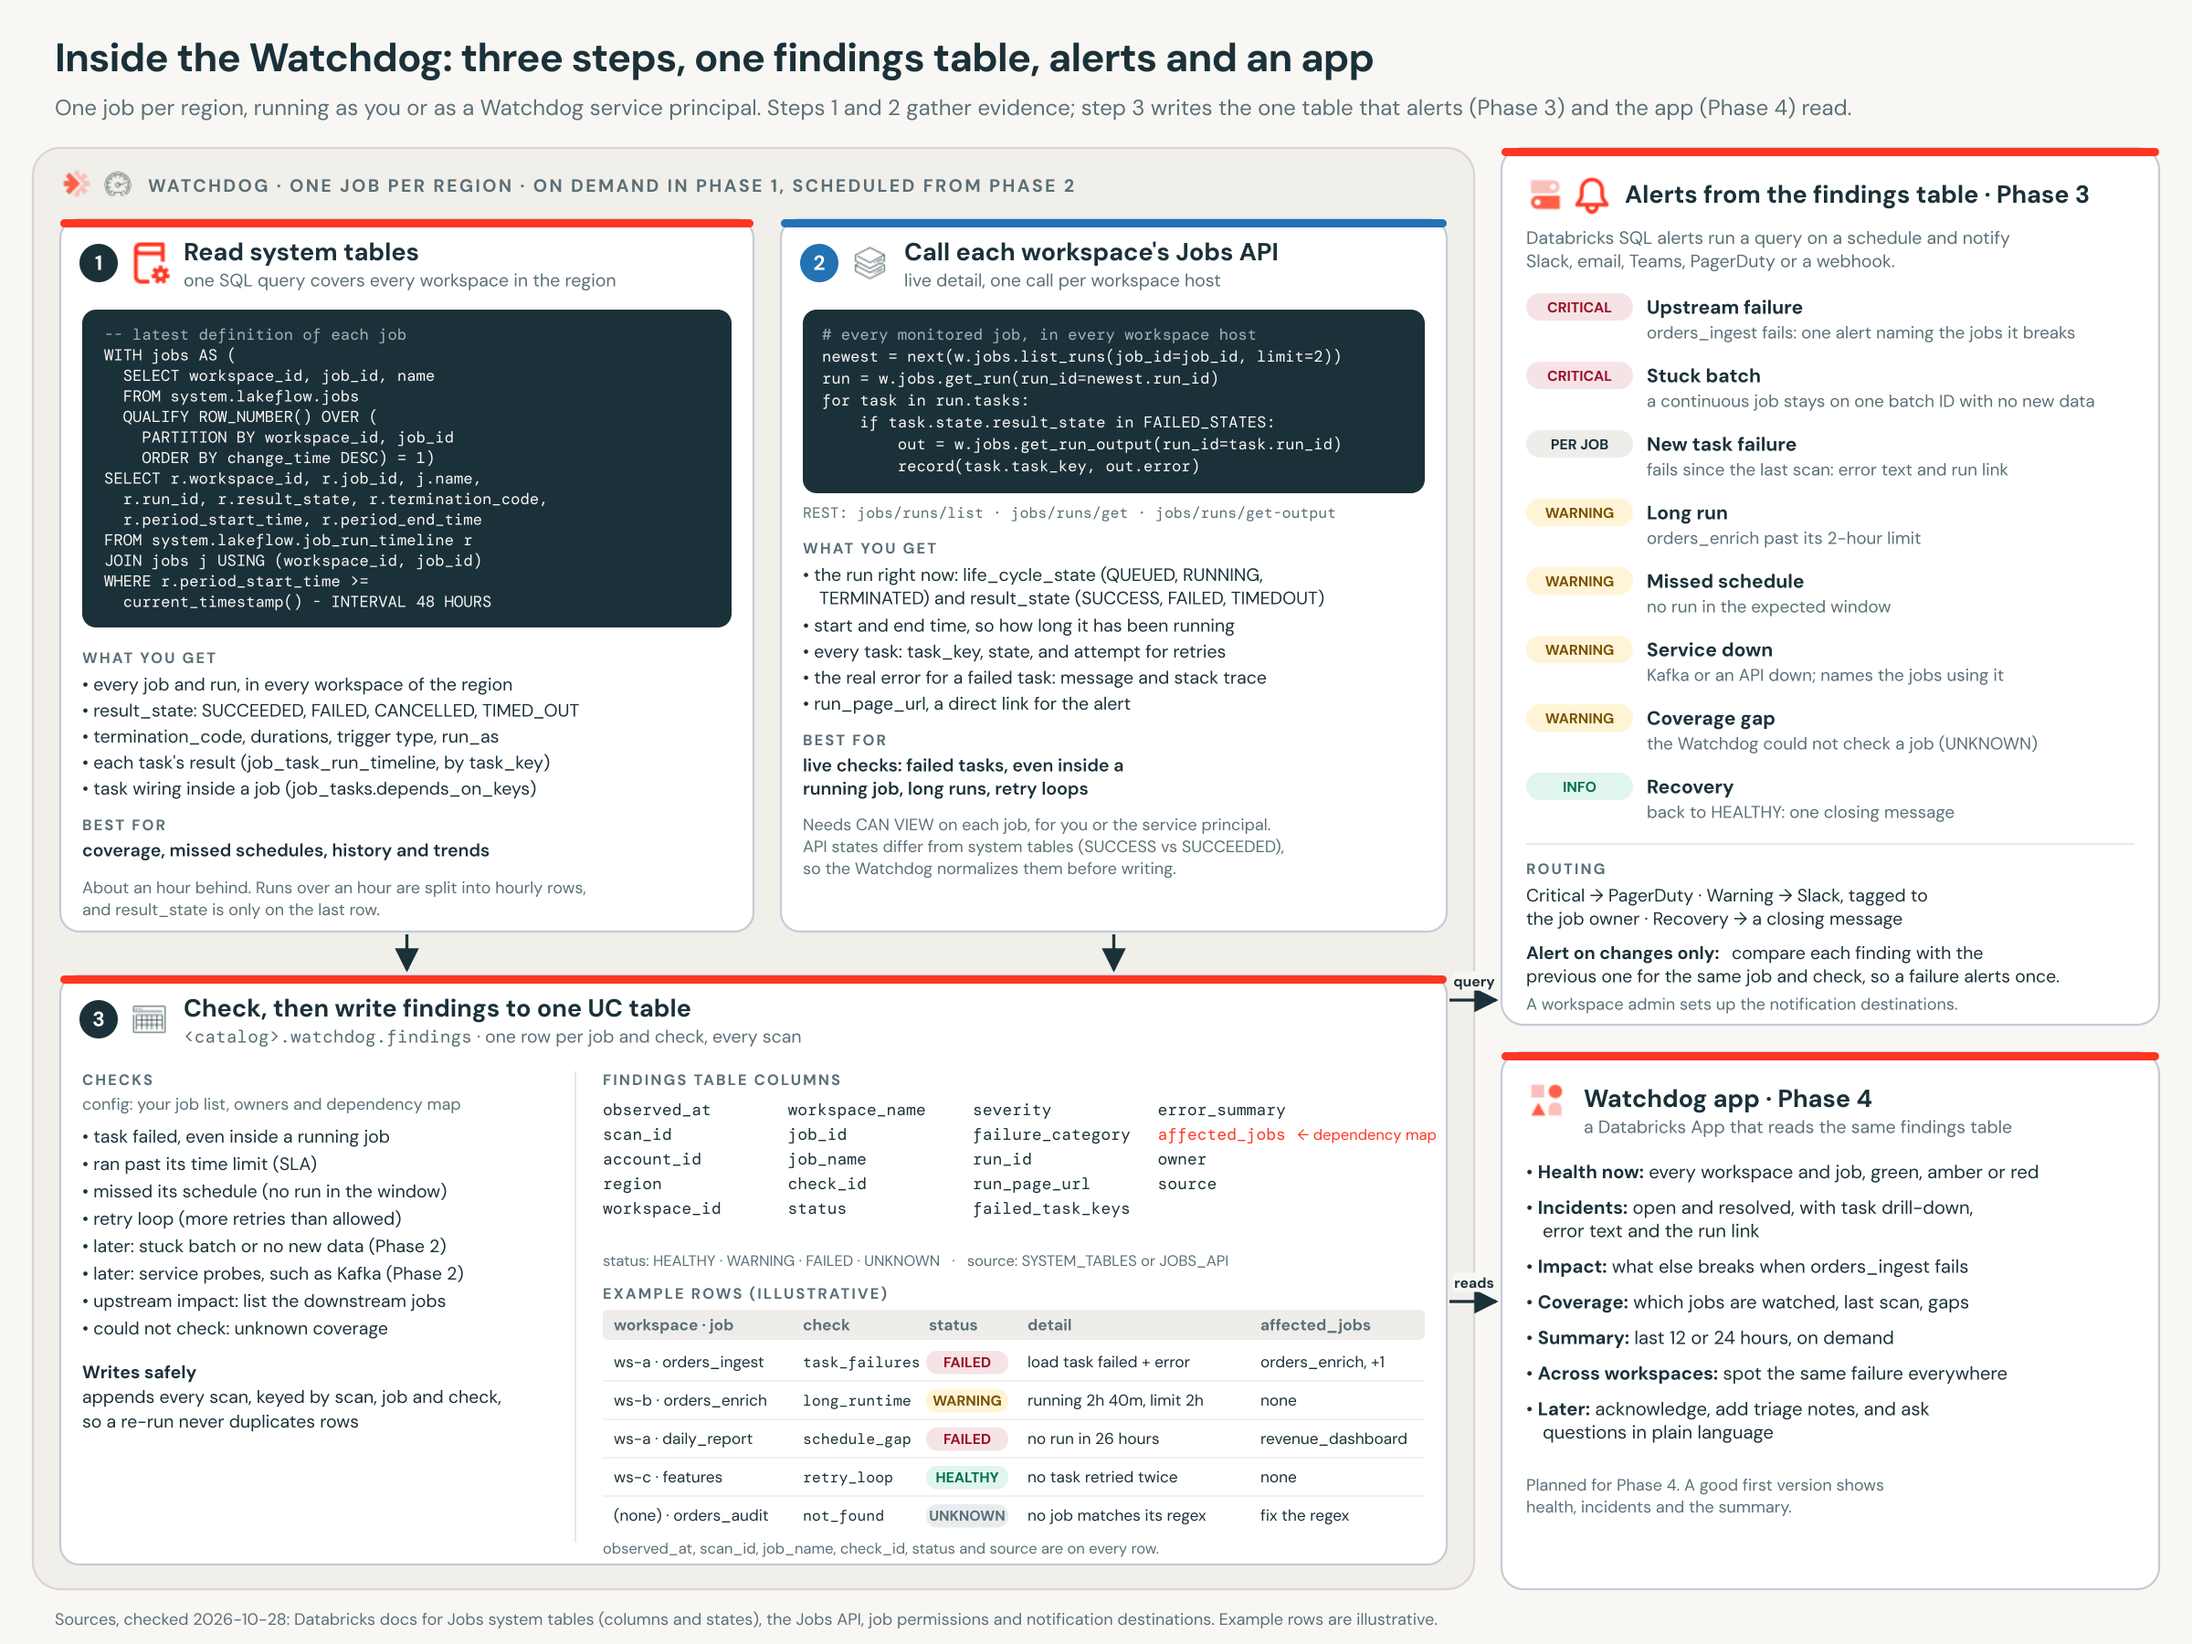
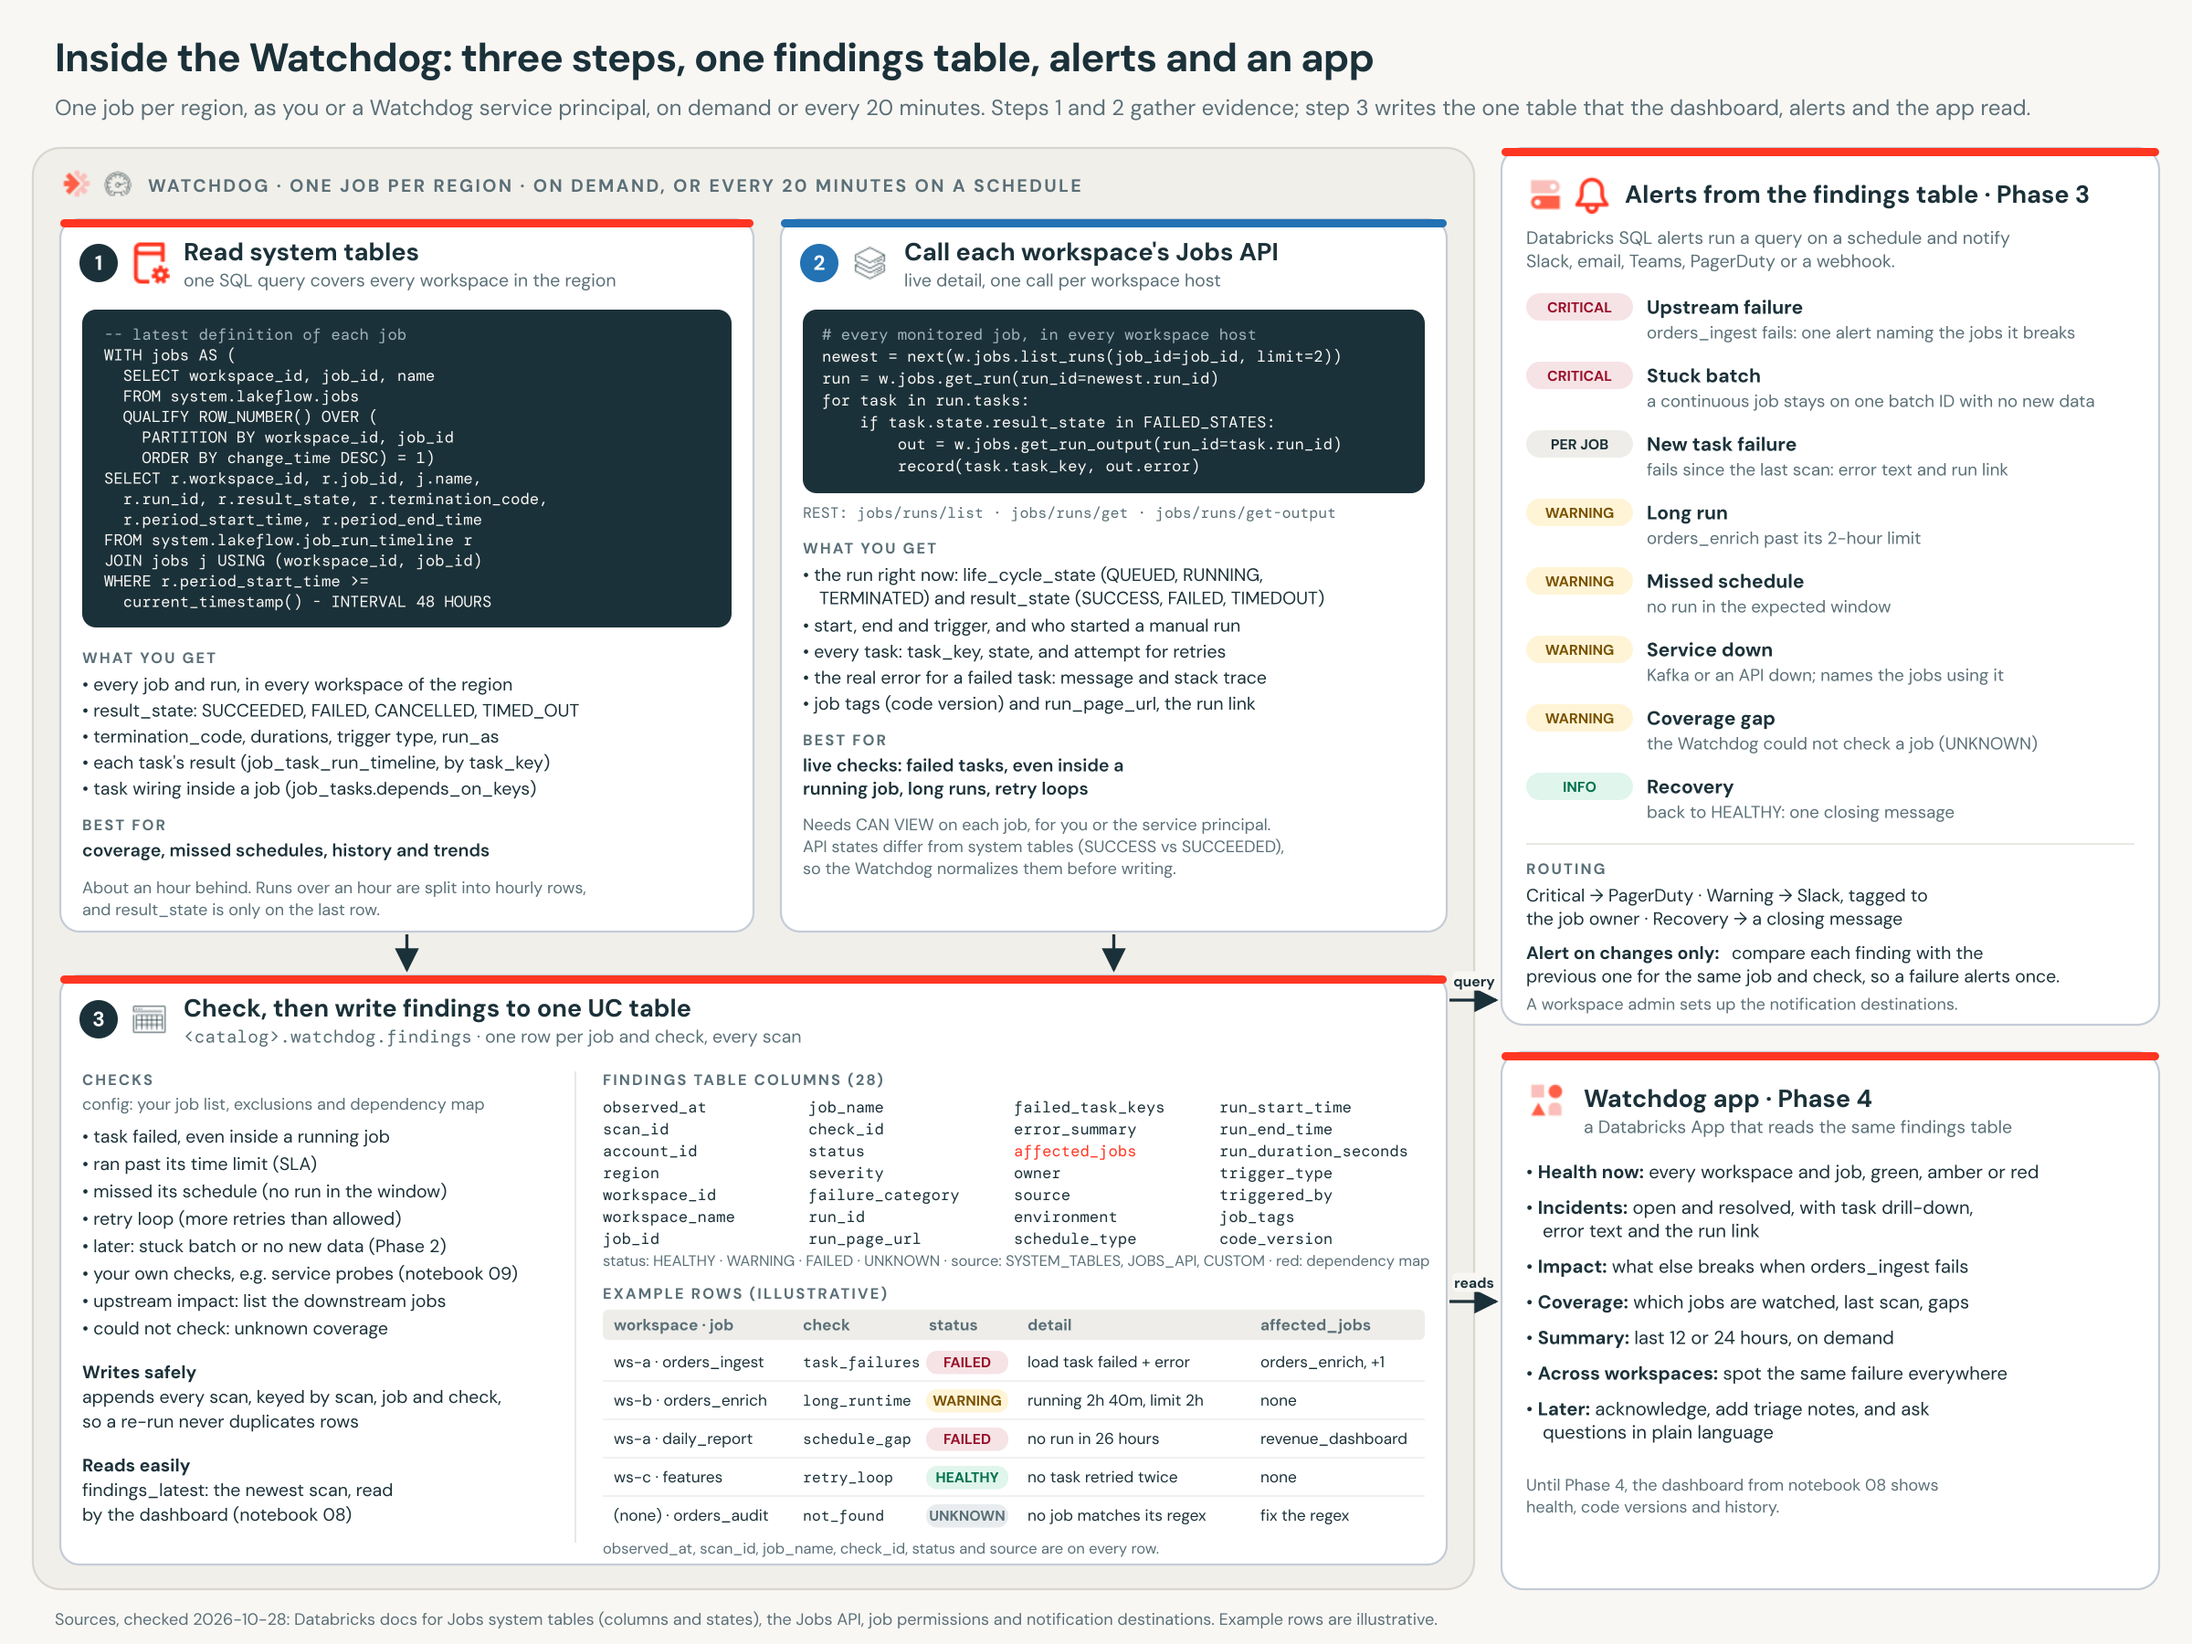
docs: update both diagrams for Phase 1.1
The Inside the Watchdog diagram now lists all 28 findings columns, the schedule (on demand or every 20 minutes), the exclusions in the config, custom checks (notebook 09), the findings_latest view and the dashboard (notebook 08). The Unity Catalog overview shows the scheduled scan and the dashboard. The README and architecture notes that said the diagrams predate Phase 1.1 are removed.

diff --git a/README.md b/README.md
@@ -23,9 +23,7 @@ Each region has one Unity Catalog metastore, and its system tables collect job h
 
 ![Inside the Watchdog: three steps, one findings table, alerts and an app](docs/images/watchdog-inside-steps-findings-alerts.png)
 
-Inside a scan, step 1 reads the system tables, step 2 calls the Jobs API, and step 3 checks both against your config and writes findings. The schedule repeats these steps every 20 minutes by default. Alerts (Phase 3) and the app (Phase 4) read the same table. [docs/architecture.md](docs/architecture.md) walks through both diagrams.
-
-The diagram labels predate Phase 1.1. The schedule is in this release, and the findings table has more columns than the diagram shows. The text is current.
+Inside a scan, step 1 reads the system tables, step 2 calls the Jobs API, and step 3 checks both against your config and writes findings. The schedule repeats these steps every 20 minutes by default. The dashboard (notebook 08) reads the same table now, through the view `findings_latest`; alerts (Phase 3) and the app (Phase 4) will too. [docs/architecture.md](docs/architecture.md) walks through both diagrams.
 
 ### What Phase 1 checks
 

diff --git a/docs/architecture.md b/docs/architecture.md
@@ -2,8 +2,6 @@
 
 The Watchdog is a job that runs in one Unity Catalog workspace per cloud region. Each scan reads two sources, checks them against your list of monitored jobs, and writes the results into one table, `findings`. A scheduled scan runs every 20 minutes by default, and it starts paused. Each scheduled run first brings the tables and the view up to date. A dashboard reads the view `findings_latest`, which holds the newest scan from each source, judged by the time each scan first wrote. This page walks through the two diagrams and the timing details that shape the checks.
 
-> **The diagrams predate Phase 1.1.** The second diagram shows the first 19 of the 28 findings columns, and its labels place the schedule in Phase 2. The text on this page and in [data-model.md](data-model.md) is current.
-
 ## Diagram 1: Unity Catalog, system tables and the Watchdog identity
 
 ![Unity Catalog, system tables and the Watchdog identity](images/watchdog-unity-catalog-system-tables.png)
